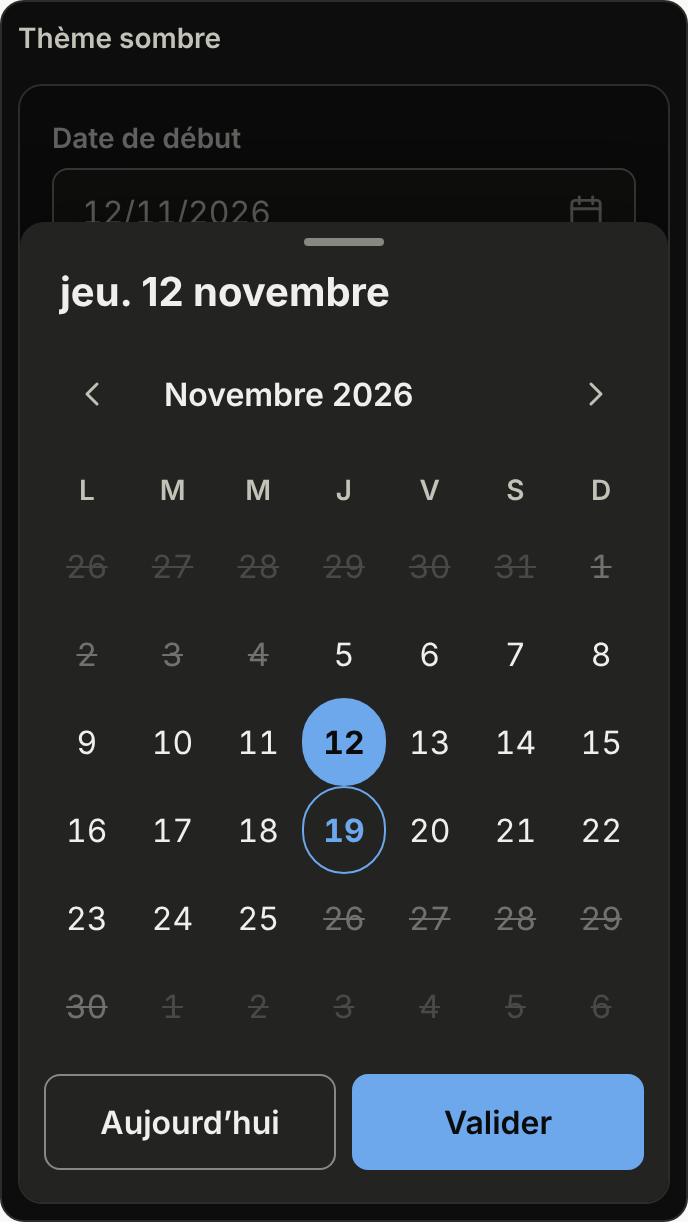
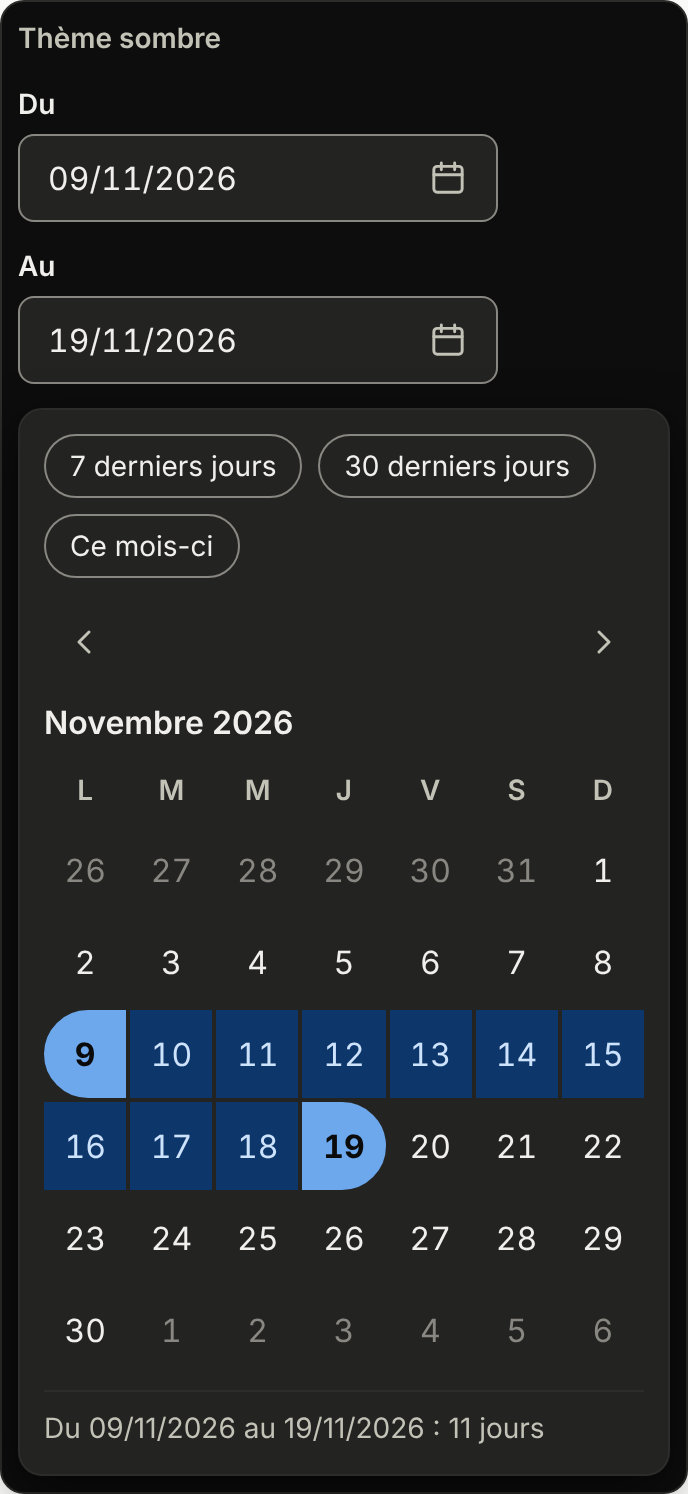
docs(design): explorations du sélecteur de date (trois directions maquettées, à choisir par l'utilisateur)
Claude-Session: https://claude.ai/code/session_011nLZSEPJfzJTrYmUmaR8vs

diff --git a/docs/design/explorations/2026-11-date-picker/index.html b/docs/design/explorations/2026-11-date-picker/index.html
@@ -89,7 +89,23 @@ label.l{display:block;font-size:var(--lc-sys-font-size-sm);font-weight:600;margi
 .chips{display:flex;flex-wrap:wrap;gap:var(--lc-sys-space-2);margin-bottom:var(--lc-sys-space-2)}
 .chip{border:var(--lc-sys-border-width-thin) solid var(--lc-sys-color-border-strong);background:transparent;color:var(--lc-sys-color-on-surface);font:inherit;font-size:var(--lc-sys-font-size-sm);height:32px;padding:0 var(--lc-sys-space-3);border-radius:var(--lc-sys-radius-full);cursor:pointer}
 .chip:hover{background:var(--hover)}
-/* C : feuille */
+/* C : plage */
+.rng{display:grid;grid-template-columns:auto 1fr;gap:var(--lc-sys-space-3);max-width:100%;width:max-content}
+.rng .side{display:flex;flex-direction:column;gap:var(--lc-sys-space-2);padding-right:var(--lc-sys-space-3);border-right:var(--lc-sys-border-width-thin) solid var(--lc-sys-color-border)}
+.rng .side .chip{text-align:left}
+.two{display:grid;grid-template-columns:repeat(2,minmax(0,1fr));gap:var(--lc-sys-space-6)}
+.two .grid{min-width:252px}
+.d.inr{background:var(--lc-sys-color-primary-container);color:var(--lc-sys-color-on-primary-container);border-radius:0}
+.d.st{border-radius:var(--lc-sys-radius-full) 0 0 var(--lc-sys-radius-full)}
+.d.en{border-radius:0 var(--lc-sys-radius-full) var(--lc-sys-radius-full) 0}
+.d.st.en{border-radius:var(--lc-sys-radius-full)}
+@media (max-width:640px){.rng{grid-template-columns:1fr;width:100%}.rng .side{flex-direction:row;flex-wrap:wrap;border:0;padding:0}.two{grid-template-columns:1fr}.two .grid{min-width:0}.two>div+div{display:none}}
+.pop.wide{max-width:none;width:max-content}
+#C{grid-template-columns:1fr}
+@media (max-width:640px){.pop.wide{width:100%}}
+.phone{min-height:0!important;display:block!important;overflow:visible!important;max-width:340px;width:100%;border:var(--lc-sys-border-width-thin) dashed var(--lc-sys-color-border-strong);border-radius:var(--lc-sys-radius-lg);padding:var(--lc-sys-space-3);background:var(--lc-sys-color-surface)}
+.os{margin-top:var(--lc-sys-space-2);border:var(--lc-sys-border-width-thin) dashed var(--lc-sys-color-border-strong);border-radius:var(--lc-sys-radius-md);padding:var(--lc-sys-space-3);font-size:var(--lc-sys-font-size-sm);color:var(--lc-sys-color-on-surface-muted);background:var(--lc-sys-color-surface-sunken)}
+/* ancien C : feuille (abandonné) */
 .phone{position:relative;overflow:hidden;border:var(--lc-sys-border-width-thin) solid var(--lc-sys-color-border);border-radius:var(--lc-sys-radius-lg);background:var(--lc-sys-color-surface);min-height:560px;max-width:360px;width:100%;margin:0 auto;display:flex;flex-direction:column;justify-content:flex-end}
 .phone .under{padding:var(--lc-sys-space-4);position:absolute;inset:0 0 auto 0}
 .phone .bk{position:absolute;inset:0;background:var(--lc-sys-color-backdrop)}
@@ -124,9 +140,16 @@ label.l{display:block;font-size:var(--lc-sys-font-size-sm);font-weight:600;margi
 </section>
 
 <section class="dir">
-<h2>C. Feuille en bas d'écran, pensée téléphone</h2>
-<p class="note">Le champ garde le sélecteur natif sur téléphone ; sur grand écran, le panneau de A ou B. Une feuille avec grandes cibles (48 px), la date choisie en gros, « Valider » et « Annuler ». Montrée ici dans un cadre de 360 px.</p>
+<h2>C. Période : deux mois côte à côte avec raccourcis</h2>
+<p class="note">Pour filtrer « du … au … » (écran d'audit). Deux champs, une plage surlignée, raccourcis « 7 derniers jours », « Ce mois-ci ». Sous 640 px, un seul mois s'affiche. Bornes non appliquées ici (valeur d'exemple).</p>
 <div class="themes" id="C"></div>
+</section>
+
+<section class="dir">
+<h2>Appareils tactiles et fenêtre d'ordinateur étroite (à 360 px)</h2>
+<p class="note">Règle : le calendrier du kit s'active quand <code>(pointer: fine) and (hover: hover)</code> ; sinon le champ natif et le sélecteur du système. À gauche ce que voit un téléphone ; à droite une fenêtre d'ordinateur réduite à 360 px, où le calendrier du kit (direction A) reste utilisable.</p>
+<div class="themes" id="D"></div>
+<div class="themes" id="E"></div>
 </section>
 </div>
 
@@ -139,15 +162,18 @@ const key=(y,m,d)=>y*10000+m*100+d, K=a=>key(...a);
 const ico={cal:'<svg viewBox="0 0 24 24"><rect x="3.5" y="5" width="17" height="15.5" rx="2"/><path d="M8 3v4M16 3v4M3.5 10h17"/></svg>',
  l:'<svg viewBox="0 0 24 24"><path d="m15 6-6 6 6 6"/></svg>',r:'<svg viewBox="0 0 24 24"><path d="m9 6 6 6-6 6"/></svg>',
  dn:'<svg viewBox="0 0 24 24"><path d="m6 9 6 6 6-6"/></svg>'};
+const K2=a=>new Date(a[0],a[1],a[2]).getTime();
 const pad=n=>String(n).padStart(2,'0');
 const fmt=a=>`${pad(a[2])}/${pad(a[1]+1)}/${a[0]}`;
+const mm0=(st,m,y)=>m;
 function days(st,opt){
   const first=new Date(st.y,st.m,1), off=(first.getDay()+6)%7, n=new Date(st.y,st.m+1,0).getDate();
   let h=WD.map(w=>`<span class="wd" role="columnheader" aria-label="${w[1]}">${w[0]}</span>`).join('');
   for(let i=-off;i<n+((7-(off+n)%7)%7);i++){
     const dt=new Date(st.y,st.m,1+i), y=dt.getFullYear(), m=dt.getMonth(), d=dt.getDate(), k=key(y,m,d);
     const c=['d']; if(m!==st.m)c.push('out'); if(k===K(TODAY))c.push('today'); if(st.sel&&k===K(st.sel))c.push('sel');
-    const dis=k<K(MIN)||k>K(MAX); if(dis)c.push('dis'); if(opt.foc&&k===key(2026,10,opt.foc)&&m===st.m)c.push('foc');
+    if(st.rs&&m===mm0(st,m,y)){const a=K(st.rs),z=K(st.re);if(k===a)c.push('sel','st');if(k===z)c.push('sel','en');if(k>a&&k<z)c.push('inr');}
+    const dis=!opt.free&&(k<K(MIN)||k>K(MAX)); if(dis)c.push('dis'); if(opt.foc&&k===key(2026,10,opt.foc)&&m===st.m)c.push('foc');
     h+=`<button class="${c.join(' ')}" type="button" data-d="${y}-${m}-${d}" ${dis?'aria-disabled="true"':''} aria-label="${d} ${MONTHS[m]} ${y}${k===K(TODAY)?', aujourd’hui':''}${dis?', indisponible':''}" ${st.sel&&k===K(st.sel)?'aria-pressed="true"':''}>${d}</button>`;
   }
   return `<div class="grid" role="grid" aria-label="${MONTHS[st.m]} ${st.y}">${h}</div>`;
@@ -171,21 +197,26 @@ const T={
  B:(st)=>{const mv=st.view!=='days';return `<div>${st.first?'<label class="l">Date de début</label><div class="field"><div class="seg" role="group" aria-label="Date de début"><input value="12" aria-label="Jour" inputmode="numeric"><i>/</i><input value="11" aria-label="Mois" inputmode="numeric"><i>/</i><input class="y" value="2026" aria-label="Année" inputmode="numeric"></div><button class="ib" type="button" aria-label="Ouvrir le calendrier">'+ico.cal+'</button></div>':''}</div>
   <div class="pop" role="dialog" aria-label="Choisir une date">${nav(mv?(st.view==='months'?'Année précédente':'Décennie précédente'):'Mois précédent',mv?(st.view==='months'?'Année suivante':'Décennie suivante'):'Mois suivant',rich(st))}
   ${st.view==='days'?'<div class="chips"><button class="chip" type="button" data-today="1">Aujourd’hui</button><button class="chip" type="button" data-set="-1">Hier</button><button class="chip" type="button" data-set="-7">Il y a 7 jours</button></div>'+days(st,{foc:18})+'<div class="ft"><button class="txt" type="button" data-clear="1">Effacer</button><button class="txt" type="button" data-today="1">Aujourd’hui</button></div>':st.view==='months'?months(st):years(st)}</div>`},
- C:(st)=>`<div class="phone"><div class="under"><label class="l">Date de début</label><div class="field"><input readonly value="${st.sel?fmt(st.sel):''}" aria-label="Date de début"><span class="ib" aria-hidden="true">${ico.cal}</span></div></div><div class="bk"></div>
-  <div class="sheet" role="dialog" aria-modal="true" aria-label="Choisir une date"><div class="grip"></div><div class="big">${st.sel?['jeu.','ven.','sam.','dim.','lun.','mar.','mer.'][(new Date(st.sel[0],st.sel[1],st.sel[2]).getDay()+3)%7]+' '+st.sel[2]+' '+MONTHS[st.sel[1]]:'Aucune date'}</div>
-  ${nav('Mois précédent','Mois suivant',plain(st))}${days(st,{})}<div class="acts"><button class="btn o" type="button" data-today="1">Aujourd’hui</button><button class="btn" type="button">Valider</button></div></div></div>`
+ C:(st)=>{const a=st.rs,z=st.re;const m2={...st,m:st.m+1>11?0:st.m+1,y:st.m+1>11?st.y+1:st.y};
+  return `<div style="display:flex;flex-wrap:wrap;gap:12px"><div style="flex:1 1 180px;max-width:240px"><label class="l">Du</label><div class="field"><input inputmode="numeric" value="${fmt(a)}" aria-label="Du, format jour mois année"><button class="ib" type="button" aria-label="Ouvrir le calendrier">${ico.cal}</button></div></div><div style="flex:1 1 180px;max-width:240px"><label class="l">Au</label><div class="field"><input inputmode="numeric" value="${fmt(z)}" aria-label="Au, format jour mois année"><button class="ib" type="button" aria-label="Ouvrir le calendrier">${ico.cal}</button></div></div></div>
+  <div class="pop wide" role="dialog" aria-label="Choisir une période"><div class="rng"><div class="side"><button class="chip" type="button" data-r="7">7 derniers jours</button><button class="chip" type="button" data-r="30">30 derniers jours</button><button class="chip" type="button" data-r="m">Ce mois-ci</button></div>
+  <div>${nav('Mois précédent','Mois suivant','<span class="t"></span>')}<div class="two"><div><div class="t" style="font-weight:600;text-transform:capitalize;margin-bottom:6px">${MONTHS[st.m]} ${st.y}</div>${days(st,{free:1})}</div><div><div class="t" style="font-weight:600;text-transform:capitalize;margin-bottom:6px">${MONTHS[m2.m]} ${m2.y}</div>${days(m2,{free:1})}</div></div>
+  <div class="ft"><span class="note" style="align-self:center">Du ${fmt(a)} au ${fmt(z)} : ${Math.round((K2(z)-K2(a))/864e5)+1} jours</span></div></div></div></div>`},
+ D:(st)=>`<div class="phone"><label class="l">Date de début</label><div class="field"><input readonly value="12/11/2026" aria-label="Date de début"><span class="ib" aria-hidden="true">${ico.cal}</span></div><div class="os">Au toucher, le champ ouvre le sélecteur du système (non maquetté : il dépend du téléphone). Le champ, lui, porte le thème.</div></div>`
 };
 function mount(host,dir,theme,view,first){
   const el=document.createElement('div');el.className='stage';el.dataset.theme=theme;
   host.appendChild(el);
   const st={y:2026,m:10,sel:[2026,10,12],view:view||'days',first};
+  if(dir==='C'){st.rs=[2026,10,9];st.re=[2026,10,19];st.sel=null;st.pick=0}
   const draw=()=>{el.innerHTML=`<b>Thème ${theme==='dark'?'sombre':'clair'}${dir==='B'?(st.view==='days'?' · vue jours':st.view==='months'?' · vue mois (clic sur le titre)':' · vue décennie'):''}</b>`+T[dir](st)};
   el.addEventListener('click',e=>{const b=e.target.closest('button');if(!b)return;
     if(b.dataset.nav){const s=+b.dataset.nav;if(st.view==='days'){st.m+=s;if(st.m<0){st.m=11;st.y--}if(st.m>11){st.m=0;st.y++}}else if(st.view==='months')st.y+=s;else st.y+=10*s}
     else if(b.dataset.up){st.view=st.view==='days'?'months':'years'}
     else if(b.dataset.m){st.m=+b.dataset.m;st.view='days'}
     else if(b.dataset.y){st.y=+b.dataset.y;st.view='months'}
-    else if(b.dataset.d){if(b.getAttribute('aria-disabled'))return;const[y,m,d]=b.dataset.d.split('-').map(Number);st.sel=[y,m,d];st.y=y;st.m=m}
+    else if(b.dataset.d){if(b.getAttribute('aria-disabled'))return;const[y,m,d]=b.dataset.d.split('-').map(Number);if(dir==='C'){const v=[y,m,d];if(!st.pick){st.rs=v;st.re=v;st.pick=1}else{if(K(v)<K(st.rs)){st.re=st.rs;st.rs=v}else st.re=v;st.pick=0}}else{st.sel=[y,m,d];st.y=y;st.m=m}}
+    else if(b.dataset.r){const e=[...TODAY];if(b.dataset.r==='m'){st.rs=[2026,10,1]}else{const d=new Date(2026,10,19-(+b.dataset.r-1));st.rs=[d.getFullYear(),d.getMonth(),d.getDate()]}st.re=e;st.pick=0;st.m=st.rs[1];st.y=st.rs[0]}
     else if(b.dataset.today){st.sel=[...TODAY];st.y=2026;st.m=10}
     else if(b.dataset.set){st.sel=[2026,10,19+Number(b.dataset.set)]}
     else if(b.dataset.clear){st.sel=null} else return;
@@ -198,5 +229,7 @@ for(const th of ['light','dark']){
   mount(C,'C',th);
 }
 for(const th of ['light','dark'])mount(B,'B',th,'months');
+for(const th of ['light','dark']){mount(D,'D',th)}
+for(const th of ['light','dark']){mount(E,'A',th)}
 </script>
 </body></html>
